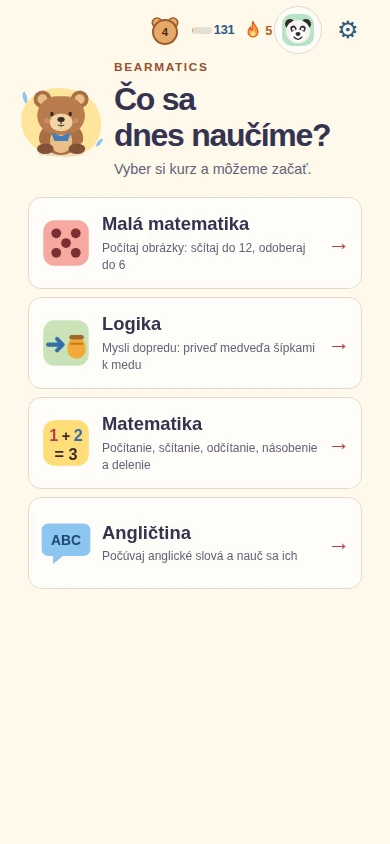
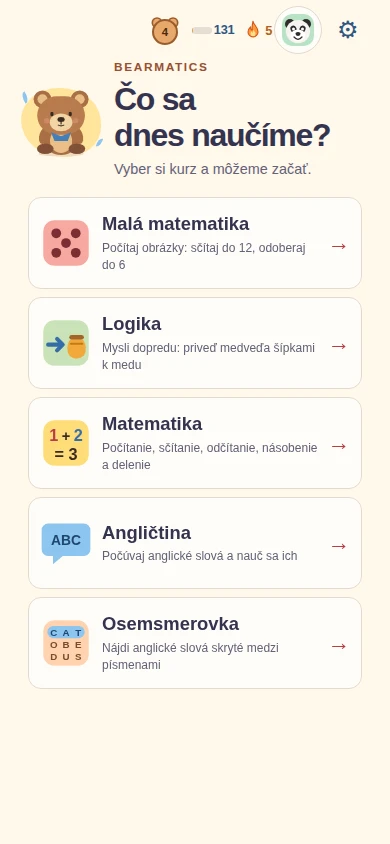
SCRUM-241 About page (SK/EN): Word search course with its three levels, how a lesson works, whole points like Logic; new screenshot wordsearch.webp (level 1, two words found) and the course screenshot with five cards (scripts/about-screenshots.mjs --shots course,wordsearch); About unit and browser s

Changed region(s): [[0.0923, 0.7085, 0.6154, 0.8009], [0.6462, 0.7393, 0.7077, 0.7701]]

diff --git a/src/about/aboutCopy.ts b/src/about/aboutCopy.ts
@@ -7,6 +7,7 @@ export const SHOTS = [
   'take-away',
   'logic',
   'english',
+  'wordsearch',
   'summary',
   'app-bar',
   'leaderboard',
@@ -38,6 +39,12 @@ export const aboutCopy = {
     logicDetail: 'plan the way with arrows, up to 4 steps',
     logicDetail2: 'stones stand in the way: find the free way, up to 6 steps',
     englishLead: '21 school words spoken in a British voice',
+    searchLead: 'find the English school words in a grid of letters',
+    searchDetails: {
+      1: 'the words are listed below the grid; they go left to right or top to bottom',
+      2: 'listen to the words, then find them',
+      3: 'words also go backwards and diagonally',
+    },
     levelDetails: {
       0: 'add up to 6',
       8: 'take pictures out of a basket, up to 6',
@@ -56,6 +63,7 @@ export const aboutCopy = {
       'Answer with the on-screen number pad or the keyboard. A wrong answer can simply be tried again.',
       'In Maths, hints show the problem in smaller steps.',
       'In Logic, your child plans the bear’s way to the honey with arrows and then presses Go. A short picture demo shows how at the first Logic lesson on a device; Show me plays it again any time.',
+      'In Word search, your child taps the first and then the last letter of a word. Each grid hides 5 words; a lesson of 5, 10 or 20 words has 1, 2 or 4 new grids. A word counts on the first try when no wrong pair was tapped before it.',
       'Exercises that needed more tries come back in a short review round.',
       'The summary shows how many were right on the first try without hints.',
       'It also shows how long the lesson took and about how long one exercise took. The time is not saved anywhere.',
@@ -65,7 +73,7 @@ export const aboutCopy = {
     signIn: [
       'Everything works without an account.',
       'Sign in with Google or a username and password to collect points: 1 point for each exercise right on the first try in a finished lesson.',
-      'An easy level played again on one day gives fewer points: from the 3rd play half, from the 5th play a quarter (rounded up). The first play of the day of a harder level (Maths levels 4–7, level 3 of Small maths and English) gives 1.5 times the points. Logic always gives whole points. A small sign in the level menu shows this for the next play: ★, 1/2 or 1/4.',
+      'An easy level played again on one day gives fewer points: from the 3rd play half, from the 5th play a quarter (rounded up). The first play of the day of a harder level (Maths levels 4–7, level 3 of Small maths and English) gives 1.5 times the points. Logic and Word search always give whole points. A small sign in the level menu shows this for the next play: ★, 1/2 or 1/4.',
       'Points grow your bear badge. Play every day to build a streak; missed days freeze it and points can unlock it.',
       'A leaderboard shows nickname, bear, bear badge, streak and points of players; you can hide yourself in the profile.',
       'The profile is only a nickname and a bear your child dresses from parts (fur, background, something for the head, neck and eyes); the bear look is stored as five numbers, no photo or real name. The account can be deleted any time.',
@@ -80,7 +88,7 @@ export const aboutCopy = {
     shots: {
       course: {
         caption: 'Choosing a course',
-        alt: 'Bearmatics on a phone: the bear and the four courses Small maths, Logic, Maths and English.',
+        alt: 'Bearmatics on a phone: the bear and the five courses Small maths, Logic, Maths, English and Word search.',
       },
       'small-maths': {
         caption: 'Small maths: count the pictures',
@@ -97,6 +105,10 @@ export const aboutCopy = {
       english: {
         caption: 'English: listen and choose',
         alt: 'An English listen-and-choose exercise: a speaker button and four word buttons.',
+      },
+      wordsearch: {
+        caption: 'Word search: find the words',
+        alt: 'A Word search exercise: a 6 by 6 grid of capital letters with two found words coloured, and the five words below it, two of them struck through.',
       },
       summary: {
         caption: 'Lesson summary',
@@ -126,6 +138,12 @@ export const aboutCopy = {
     logicDetail: 'naplánuj cestu šípkami, najviac 4 kroky',
     logicDetail2: 'v ceste stoja kamene: nájdi voľnú cestu, najviac 6 krokov',
     englishLead: '21 slov zo školy v britskej výslovnosti',
+    searchLead: 'nájdi anglické slová zo školy v mriežke písmen',
+    searchDetails: {
+      1: 'slová sú pod mriežkou; idú zľava doprava alebo zhora nadol',
+      2: 'vypočuj si slová a potom ich nájdi',
+      3: 'slová idú aj odzadu a šikmo',
+    },
     levelDetails: {
       0: 'sčítanie s obrázkami do 6',
       8: 'vyber obrázky z košíka, do 6',
@@ -144,6 +162,7 @@ export const aboutCopy = {
       'Odpoveď napíš číselníkom na obrazovke alebo klávesnicou. Nesprávnu odpoveď môžeš skúsiť znova.',
       'V Matematike pomôcky ukážu príklad v menších krokoch.',
       'V Logike dieťa naplánuje šípkami cestu medveďa k medu a potom stlačí Choď. Krátka obrázková ukážka ukáže ako pri prvej lekcii Logiky na zariadení; tlačidlo Ukáž mi ju kedykoľvek zopakuje.',
+      'V Osemsmerovke dieťa ťukne na prvé a potom na posledné písmeno slova. V každej mriežke je 5 slov; lekcia s 5, 10 alebo 20 slovami má 1, 2 alebo 4 nové mriežky. Slovo sa počíta na prvý pokus, keď pred ním nebola ťuknutá nesprávna dvojica.',
       'Príklady, ktoré potrebovali viac pokusov, sa vrátia v krátkom opakovaní.',
       'Na konci vidíš, koľko príkladov bolo správne na prvý pokus bez pomôcky.',
       'Uvidíš aj, ako dlho lekcia trvala a koľko asi trval jeden príklad. Čas sa nikam neukladá.',
@@ -153,7 +172,7 @@ export const aboutCopy = {
     signIn: [
       'Všetko funguje aj bez účtu.',
       'Prihlásenie cez Google alebo menom a heslom zbiera body: 1 bod za každý príklad správne na prvý pokus v dokončenej lekcii.',
-      'Ľahká úroveň zahraná v jeden deň znova dáva menej bodov: od 3. hry polovicu, od 5. hry štvrtinu (zaokrúhlené nahor). Prvá hra dňa na ťažšej úrovni (Matematika úrovne 4–7, úroveň 3 v Malej matematike a Angličtine) dáva 1,5-násobok bodov. Logika dáva vždy celé body. Malá značka v ponuke úrovní to ukazuje pre ďalšiu hru: ★, 1/2 alebo 1/4.',
+      'Ľahká úroveň zahraná v jeden deň znova dáva menej bodov: od 3. hry polovicu, od 5. hry štvrtinu (zaokrúhlené nahor). Prvá hra dňa na ťažšej úrovni (Matematika úrovne 4–7, úroveň 3 v Malej matematike a Angličtine) dáva 1,5-násobok bodov. Logika a Osemsmerovka dávajú vždy celé body. Malá značka v ponuke úrovní to ukazuje pre ďalšiu hru: ★, 1/2 alebo 1/4.',
       'Body zväčšujú medvedí odznak. Hraj každý deň a buduj sériu; vynechané dni ju zmrazia a body ju môžu odomknúť.',
       'Rebríček ukazuje prezývku, medveďa, medvedí odznak, sériu a body hráčov; v profile sa môžeš skryť.',
       'Profil je len prezývka a medvedík, ktorého si dieťa oblečie z dielikov (srsť, pozadie, niečo na hlavu, krk a oči); vzhľad medvedíka sa ukladá ako päť čísel, žiadna fotka ani skutočné meno. Účet sa dá kedykoľvek zmazať.',
@@ -168,7 +187,7 @@ export const aboutCopy = {
     shots: {
       course: {
         caption: 'Výber kurzu',
-        alt: 'Bearmatics na mobile: medveď a štyri kurzy Malá matematika, Logika, Matematika a Angličtina.',
+        alt: 'Bearmatics na mobile: medveď a päť kurzov Malá matematika, Logika, Matematika, Angličtina a Osemsmerovka.',
       },
       'small-maths': {
         caption: 'Malá matematika: počítame obrázky',
@@ -185,6 +204,10 @@ export const aboutCopy = {
       english: {
         caption: 'Angličtina: počúvaj a vyber',
         alt: 'Úloha z angličtiny Počúvaj a vyber: tlačidlo reproduktora a štyri tlačidlá so slovami.',
+      },
+      wordsearch: {
+        caption: 'Osemsmerovka: nájdi slová',
+        alt: 'Úloha z Osemsmerovky: mriežka 6 krát 6 s veľkými písmenami, dve nájdené slová vyfarbené a pod ňou päť slov, dve z nich prečiarknuté.',
       },
       summary: {
         caption: 'Koniec lekcie',

diff --git a/tests/e2e/about.spec.ts b/tests/e2e/about.spec.ts
@@ -154,7 +154,7 @@ async function expectReadableShots(page: Page, oneRow: boolean) {
   const boxes = await page
     .locator('main figure img')
     .evaluateAll((images) => images.map((image) => image.getBoundingClientRect().toJSON()));
-  expect(boxes).toHaveLength(8);
+  expect(boxes).toHaveLength(9);
   for (const box of boxes) {
     expect(box.width).toBeGreaterThanOrEqual(260);
     expect(box.width).toBeLessThanOrEqual(300);
@@ -166,7 +166,7 @@ async function expectReadableShots(page: Page, oneRow: boolean) {
 /** Scrolls every screenshot into view (they load lazily) and waits until each has loaded. */
 async function expectImagesLoaded(page: Page, lang: Lang) {
   const images = page.locator('main img');
-  await expect(images).toHaveCount(8);
+  await expect(images).toHaveCount(9);
   for (const image of await images.all()) {
     await image.scrollIntoViewIfNeeded();
     await expect
@@ -382,9 +382,18 @@ for (const lang of LANGS)
     const links = await page
       .locator('a[href]')
       .evaluateAll((list) => list.map((a) => a.getAttribute('href')));
-    // Bearmatics, Slovenčina, English, play (bar), the 8 full-size screenshots, What we store,
-    // e-mail.
-    const shots = ['course', 'small-maths', 'take-away', 'logic', 'english', 'summary', 'app-bar'];
+    // Bearmatics, Slovenčina, English, play (bar), the 9 full-size screenshots (SCRUM-241: Word
+    // search), What we store, e-mail.
+    const shots = [
+      'course',
+      'small-maths',
+      'take-away',
+      'logic',
+      'english',
+      'wordsearch',
+      'summary',
+      'app-bar',
+    ];
     expect(links).toEqual([
       `/?lang=${lang}`,
       '/about/sk',
@@ -392,9 +401,9 @@ for (const lang of LANGS)
       `/?lang=${lang}`,
       ...[...shots, 'leaderboard'].map((shot) => `/about/${lang}/${shot}.webp`),
       '#about-store',
-      links[13],
+      links[14],
     ]);
-    expect(links[13]).toMatch(/^mailto:/);
+    expect(links[14]).toMatch(/^mailto:/);
     const reached: (string | null)[] = [];
     // WebKit-style "Tab skips links" does not apply to Chromium/Firefox on Linux.
     for (let i = 0; i < links.length; i++) {
@@ -448,7 +457,7 @@ for (const lang of LANGS)
 test('a screenshot opens its full-size file in a new tab (O1)', async ({ page, context }) => {
   await page.setViewportSize({ width: 390, height: 844 });
   await page.goto('/about/sk');
-  const link = page.getByRole('link', { name: /otvorí sa na novej karte/ }).nth(7);
+  const link = page.getByRole('link', { name: /otvorí sa na novej karte/ }).nth(8);
   await expect(link).toHaveAttribute('href', '/about/sk/leaderboard.webp');
   await link.scrollIntoViewIfNeeded();
   const [tab] = await Promise.all([context.waitForEvent('page'), link.click()]);

diff --git a/src/about/About.test.tsx b/src/about/About.test.tsx
@@ -69,7 +69,7 @@ describe.each(['en', 'sk'] as const)('About page in %s', (language) => {
     expect(screen.getByRole('main')).toHaveTextContent(a.intro);
   });
 
-  it('shows the eight screenshots of its language, lazily, sized and with alt text', () => {
+  it('shows the nine screenshots of its language (SCRUM-241: Word search), lazily, sized and with alt text', () => {
     render(<AboutPage language={language} />);
     const images = screen.getAllByRole('img');
     expect(images.map((image) => image.getAttribute('src'))).toEqual(
@@ -79,12 +79,13 @@ describe.each(['en', 'sk'] as const)('About page in %s', (language) => {
         'take-away',
         'logic',
         'english',
+        'wordsearch',
         'summary',
         'app-bar',
         'leaderboard',
       ].map((shot) => `/about/${language}/${shot}.webp`),
     );
-    expect(SHOTS).toHaveLength(8);
+    expect(SHOTS).toHaveLength(9);
     for (const [index, image] of images.entries()) {
       expect(image).toHaveAttribute('loading', 'lazy');
       expect(image).toHaveAttribute('width', '390');
@@ -92,7 +93,7 @@ describe.each(['en', 'sk'] as const)('About page in %s', (language) => {
       expect(image).toHaveAccessibleName(a.shots[SHOTS[index]].alt);
       expect(a.shots[SHOTS[index]].alt.length).toBeGreaterThan(30);
     }
-    expect(new Set(images.map((image) => image.getAttribute('alt'))).size).toBe(8);
+    expect(new Set(images.map((image) => image.getAttribute('alt'))).size).toBe(9);
   });
 
   it('links every screenshot to its full-size file in a new tab (O1)', () => {
@@ -130,7 +131,18 @@ describe.each(['en', 'sk'] as const)('About page in %s', (language) => {
     expect(items).toContain(`${t.level} 1: ${t.logicLevels[1]} (${a.logicDetail})`);
     // SCRUM-289: Logic, level 2 (stones).
     expect(items).toContain(`${t.level} 2: ${t.logicLevels[2]} (${a.logicDetail2})`);
-    for (const course of [t.smallCourse, t.logicCourse, t.mathCourse, t.englishCourse])
+    // SCRUM-241: Word search, levels 1-3 with their About details.
+    for (const value of [1, 2, 3] as const)
+      expect(items).toContain(
+        `${t.level} ${value}: ${t.searchLevels[value]} (${a.searchDetails[value]})`,
+      );
+    for (const course of [
+      t.smallCourse,
+      t.logicCourse,
+      t.mathCourse,
+      t.englishCourse,
+      t.searchCourse,
+    ])
       expect(screen.getByText(course, { selector: 'strong' })).toBeInTheDocument();
   });
 

diff --git a/src/about/AboutPage.tsx b/src/about/AboutPage.tsx
@@ -206,8 +206,19 @@ export default function AboutPage({ language }: { language: Language }) {
                 ))}
               </ul>
             </li>
+            <li>
+              <strong>{t.searchCourse}</strong>, {a.searchLead}:
+              <ul>
+                {([1, 2, 3] as const).map((value) =>
+                  level(value, t.searchLevels[value], a.searchDetails[value]),
+                )}
+              </ul>
+            </li>
           </ul>
-          <Shots language={language} shots={['small-maths', 'take-away', 'logic', 'english']} />
+          <Shots
+            language={language}
+            shots={['small-maths', 'take-away', 'logic', 'english', 'wordsearch']}
+          />
         </section>
 
         <section aria-labelledby="about-lesson">

diff --git a/tests/e2e-accounts/about-pages.spec.ts b/tests/e2e-accounts/about-pages.spec.ts
@@ -21,7 +21,7 @@ test('the About page opens from the real server and its screenshots are served',
     .evaluateAll((images) =>
       images.map((image) => (image as HTMLImageElement).getAttribute('src')!),
     );
-  expect(sources).toHaveLength(8);
+  expect(sources).toHaveLength(9);
   for (const source of sources) {
     const response = await page.request.get(source);
     expect(response.status(), source).toBe(200);
